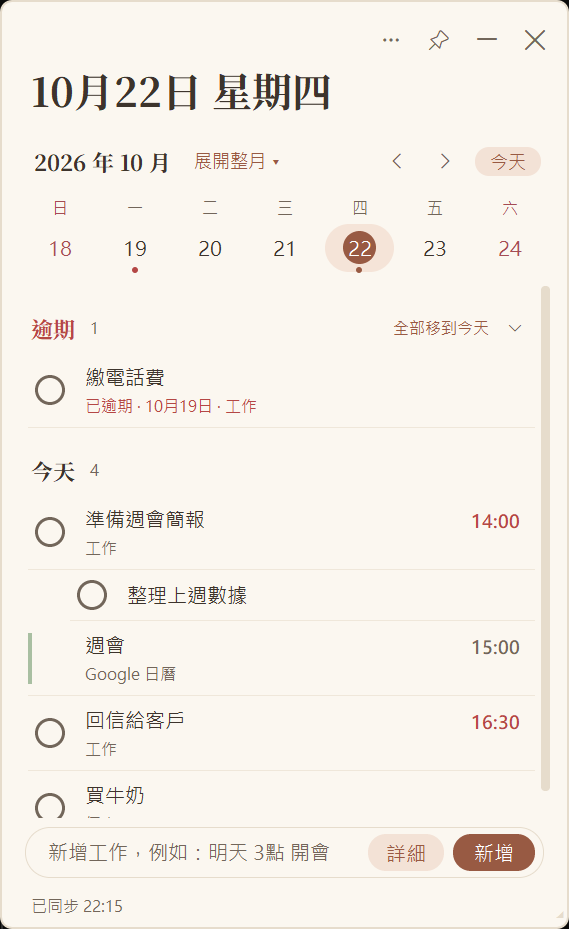
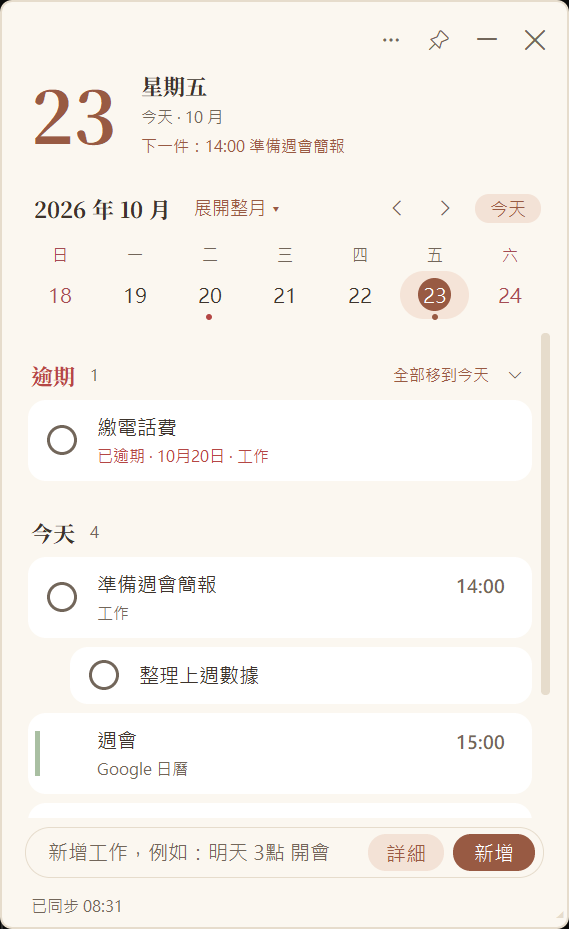
Show tasks as rounded cards and the selected date as a large numeral

diff --git a/tests/test_app_gui.py b/tests/test_app_gui.py
@@ -1432,6 +1432,45 @@ class CalendarTest(AppTestCase):
         # Then: 收起
         self.assertIsNone(app.cal_tooltip.tip)
 
+    def test_date_hero_and_page_title(self):
+        """主畫面顯示大日期（數字＋星期＋今天）；打開新增頁 > 改成頁面標題；返回 > 大日期回來"""
+        # Given: 已啟動
+        app = self.start()
+        # Then: 大日期
+        self.assertEqual(app.lbl_day.cget("text"), str(self.today.day))
+        self.assertEqual(app.lbl_relative.cget("text"), f"今天 · {self.today.month} 月")
+        self.assertTrue(app.hero.winfo_ismapped())
+        # When: 打開新增頁
+        app.open_new_task()
+        app.update()
+        # Then: 頁面標題
+        self.assertFalse(app.hero.winfo_ismapped())
+        self.assertTrue(app.lbl_date.winfo_ismapped())
+        # When: 返回
+        app.cancel_new_task(ask=False)
+        app.update()
+        # Then: 大日期回來
+        self.assertTrue(app.hero.winfo_ismapped())
+
+    def test_task_card_hover(self):
+        """滑鼠移到待辦卡片 > 卡片與內容換成滑過色；移開 > 恢復"""
+        # Given: 今天一筆任務
+        self.g.seed("寫週報", self.today)
+        app = self.start()
+        app.update()
+        label = find_label(app.list_frame, "寫週報")
+        row = label.master.master.master  # Label → 文字區 → 卡片內容 → 卡片 Canvas
+        # When: 滑鼠移入
+        row.event_generate("<Enter>")
+        app.update()
+        # Then: 滑過色
+        self.assertEqual(label.cget("bg"), daynote.CARD_HOVER)
+        # When: 移出（座標在卡片外）
+        row.event_generate("<Leave>", x=-5, y=-5)
+        app._paint_card(row, daynote.CARD)  # 測試環境的 Leave 不帶螢幕座標，直接呼叫恢復
+        # Then: 恢復卡片色
+        self.assertEqual(label.cget("bg"), daynote.CARD)
+
     def test_keyboard_navigation(self):
         """方向鍵與 Home > 前後一天、前後一週、回到今天"""
         # Given: 月曆取得焦點

diff --git a/tests/test_quick_parse.py b/tests/test_quick_parse.py
@@ -362,6 +362,21 @@ class SnoozeOptionsTest(unittest.TestCase):
         ])
 
 
+class RelativeDayTest(unittest.TestCase):
+    """大日期旁的相對日期（relative_day_text）。"""
+
+    def test_cases(self):
+        """今天、明天、昨天、幾天後、幾天前"""
+        cases = {0: "今天", 1: "明天", -1: "昨天", 3: "3 天後", -5: "5 天前"}
+        for offset, expected in cases.items():
+            with self.subTest(offset=offset):
+                # Given: 和今天差 offset 天
+                # When: 產生說明
+                result = daynote.relative_day_text(TODAY + dt.timedelta(days=offset), TODAY)
+                # Then: 文字正確
+                self.assertEqual(result, expected)
+
+
 class NextUpTest(unittest.TestCase):
     """大標題下方的「下一件」摘要（next_up_text）。"""
 
